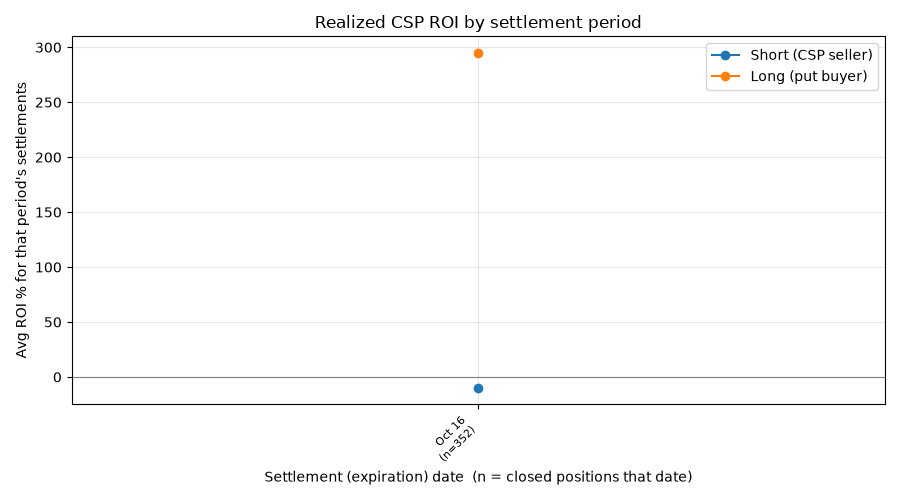
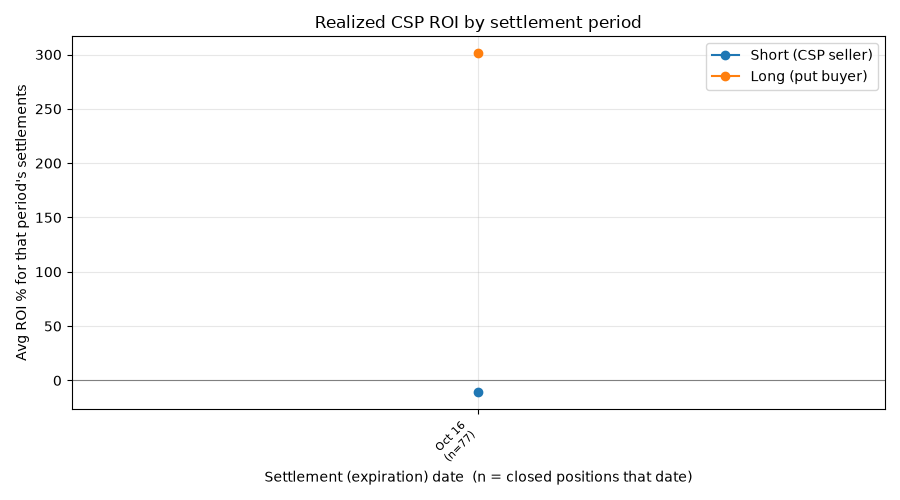
Regenerate live page: realized PnL chart now filtered to positions passing active filter config

diff --git a/index.html b/index.html
@@ -12478,7 +12478,7 @@
 
 <script>
 (function() {
-  var DEFAULT_FILTERS = {"min_roi": 150, "max_roi": null, "min_pe": 999, "max_pe": null, "min_dte_entry": null, "max_dte_entry": null, "base_investment": 50, "min_put_price": null, "max_put_price": null};
+  var DEFAULT_FILTERS = {"min_roi": null, "max_roi": null, "min_pe": 999, "max_pe": null, "min_dte_entry": null, "max_dte_entry": null, "base_investment": 50, "min_put_price": null, "max_put_price": null};
   function fmtMoney(x) {
     return x === null ? '--' : '$' + x.toLocaleString('en-US', {minimumFractionDigits: 2, maximumFractionDigits: 2});
   }
